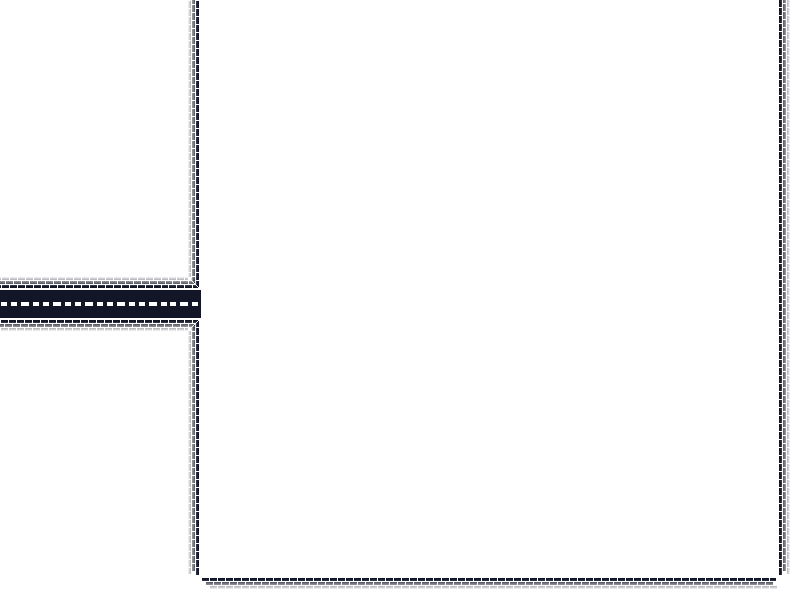
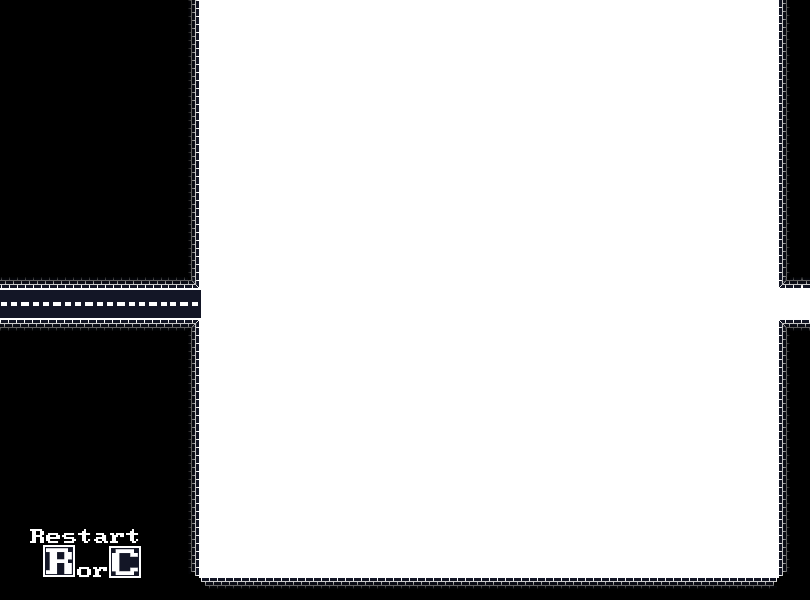
Now playable. Needs console to work.

diff --git a/OneWay/__main__.py b/OneWay/__main__.py
@@ -1,5 +1,7 @@
+import random
+
 import pygame
-from sprites import Road, CornerRoad, Highlight, Logo, Start, Background
+from sprites import Road, CornerRoad, Highlight, Logo, Start, Background, Restart, Building
 
 pygame.init()
 
@@ -22,10 +24,14 @@ clock = pygame.time.Clock()
 
 sprites_list = pygame.sprite.Group()
 
+road_sprites = []
+
 def newRoad(x, y, r_t, dir):
 
+    global points
+    points += -5
     n_rt = playerRoad.rotation
-    print(r_t, n_rt)
+    print(x, y)
 
     if r_t == 0 and n_rt == 90:
             newRoad = CornerRoad(RED, 32, 32)
@@ -58,8 +64,8 @@ def newRoad(x, y, r_t, dir):
     newRoad.rect.x = x
     newRoad.rect.y = y
 
-    roadpieces.append((x, y))
-
+    blocked_squares.append((x, y))
+    road_sprites.append(newRoad)
     return newRoad
 
 runMenu = True
@@ -101,26 +107,84 @@ while runMenu:
 
 sprites_list = pygame.sprite.Group()
 
-playerRoad = Road(RED, 32, 32)
-playerRoad.rect.x = 168
-playerRoad.rect.y = 288
-playerRoad.rotate(270)
-sprites_list.add(playerRoad)
-
-
 playerHighlight = Highlight()
-playerHighlight.rect.x = 168
-playerHighlight.rect.y = 288
-playerHighlight.rotate(270)
-sprites_list.add(playerHighlight)
-
+playerRoad = Road(RED, 32, 32)
 background = Background()
-background.rect.x = -1
-sprites_list.add(background)
-
-roadpieces = []
+restart = Restart()
+blocked_squares = []
 b1 = (200, 0)
 b2 = (776, 576)
+building_sprites = []
+building_squares = []
+
+def clearBoard(level:int):
+    global playerHighlight, playerRoad, background, restart, blocked_squares, b1, b2, building_squares, points, lvlpoints
+    lvlpoints = 0
+    if level > 8:
+        level = 8
+
+    level=level*10
+
+    points = 0
+
+    blocked_squares = []
+
+    playerHighlight.rect.x = 136
+    playerHighlight.rect.y = 256
+    playerHighlight.rotate(270)
+    sprites_list.add(playerHighlight)
+
+    playerRoad.rect.x = 168
+    playerRoad.rect.y = 288
+    playerRoad.rotate(270)
+    sprites_list.add(playerRoad)
+
+    background.rect.x = -1
+    sprites_list.add(background)
+
+    restart.rect.x = 32
+    restart.rect.y = 529
+    sprites_list.add(restart)
+
+    for i in road_sprites:
+        i.kill()
+
+    for b, r in building_sprites:
+        r.kill()
+
+    building_squares = []
+
+    for l in range(level):
+        validPos = False
+        building = Building()
+        x1, y1 = b1
+        x2, y2 = b2
+        attempts = 0
+        while not validPos:
+            pos1_pre = random.randint(0, 16)
+            pos2_pre = random.randint(0, 16)
+            pos = (x1 + (pos1_pre*32), y1 + (pos2_pre*32))
+            x, y = pos
+            pos2 = (x, y+32)
+            pos3 = (x, y-32)
+            if pos not in blocked_squares or pos not in building_squares:
+                if pos2 in building_squares or pos3 in building_squares or pos == (200, 288):
+                    pass
+                else:
+                    building.rect.x, building.rect.y = pos
+                    sprites_list.add(building)
+                    validPos = True
+                    building_squares.append(pos)
+                    building_sprites.append((pos, building))
+            elif attempts > 10:
+                validPos == True
+                print("Failed placing a building!")
+            else:
+                attempts+=1
+
+    print(building_squares)
+
+
 
 def boundChecker(tl, br, xchange=0, ychange=0):
     x, y = tl
@@ -128,12 +192,19 @@ def boundChecker(tl, br, xchange=0, ychange=0):
     b1_x, b1_y = b1
     b2_x, b2_y = b2
     xy = (x+xchange, y+ychange)
-    if xy in roadpieces:
+    if xy in blocked_squares or xy in building_squares:
         return False
     elif x+xchange < b1_x or y+ychange < b1_y or x_+xchange > b2_x or y_+ychange > b2_y:
+        if(y+ychange) == 288 and x+xchange == 776:
+            return True
         return False
     else:
         return True
+
+clearBoard(1)
+level = 1
+points = 0
+lvlpoints = 0
 
 while runGame:
 
@@ -146,7 +217,7 @@ while runGame:
         elif event.type == pygame.KEYDOWN:
 
             c_rt = playerRoad.rotation
-
+            # Listens for keyboard inputs
             if event.key == pygame.K_LEFT or event.key == pygame.K_a:
                 if boundChecker(playerRoad.rect.topleft, playerRoad.rect.bottomright, xchange=-32, ychange=0):
                     playerRoad.rotate(270)
@@ -175,16 +246,35 @@ while runGame:
                     sprites_list.add(newRoad(playerRoad.rect.left, playerRoad.rect.top, c_rt, 'down'))
                     playerRoad.moveDown(32)
                     playerHighlight.moveDown(32)
+            elif event.key == pygame.K_r or event.key == pygame.K_c:
+                clearBoard(level=level)
+
+            if (playerRoad.rect.x, playerRoad.rect.y - 32) in building_squares:
+                points += 100
+                lvlpoints +=100
+                print(building_sprites)
+                for bs in building_sprites:
+                    p, b = bs
+                    if(p == (playerRoad.rect.x, playerRoad.rect.y - 32)):
+                        b.glow()
+                print(points)
+
+            if playerRoad.rect.y == 288 and playerRoad.rect.x == 776:
+                bonus = (level / 10)*lvlpoints
+                points += int(bonus)
+                print(f"Level Complete! Gained {points} points ({int(bonus)} Bonus)! (Level {level})")
+                level +=1
+                clearBoard(level)
+
 
     screen.fill(BLACK)
-
-    # Listens for keyboard inputs
 
     sprites_list.update()
     sprites_list.draw(screen)
 
     pygame.display.flip()
     clock.tick(60)  # Sets FPS. Set at 60.
+
 
 # TO DO
 

diff --git a/OneWay/sprites.py b/OneWay/sprites.py
@@ -3,7 +3,7 @@ import pygame
 WHITE = (255, 255, 255)
 road_img = pygame.image.load("OneWay/img/road.png")
 road_turn_img = pygame.image.load("OneWay/img/roadc.png")
-highlight = pygame.image.load("OneWay/img/highlight.png")
+highlight = pygame.image.load("OneWay/img/highlight_2.png")
 start_des = pygame.image.load("OneWay/img/start_des.png")
 start = pygame.image.load("OneWay/img/start.png")
 
@@ -95,3 +95,22 @@ class Background(pygame.sprite.Sprite):
         self.image = pygame.image.load("OneWay/img/background.png")
         self.rect = self.image.get_rect()
         pygame.draw.rect(self.image, (0, 0, 0), [800, 600, 0, 0])
+
+class Restart(pygame.sprite.Sprite):
+    def __init__(self):
+        super().__init__()
+        restart_img = pygame.image.load("OneWay/img/restart.png")
+        self.image = restart_img
+        self.rect = self.image.get_rect()
+        pygame.draw.rect(self.image, (0, 0, 0), [125, 49, 0, 0])
+
+class Building(pygame.sprite.Sprite):
+    def __init__(self):
+        super().__init__()
+        restart_img = pygame.image.load("OneWay/img/buildings.png")
+        self.image = restart_img
+        self.rect = self.image.get_rect()
+        pygame.draw.rect(self.image, (0, 0, 0), [125, 49, 0, 0])
+
+    def glow(self):
+        self.image = pygame.image.load("OneWay/img/buildings_lit.png")
